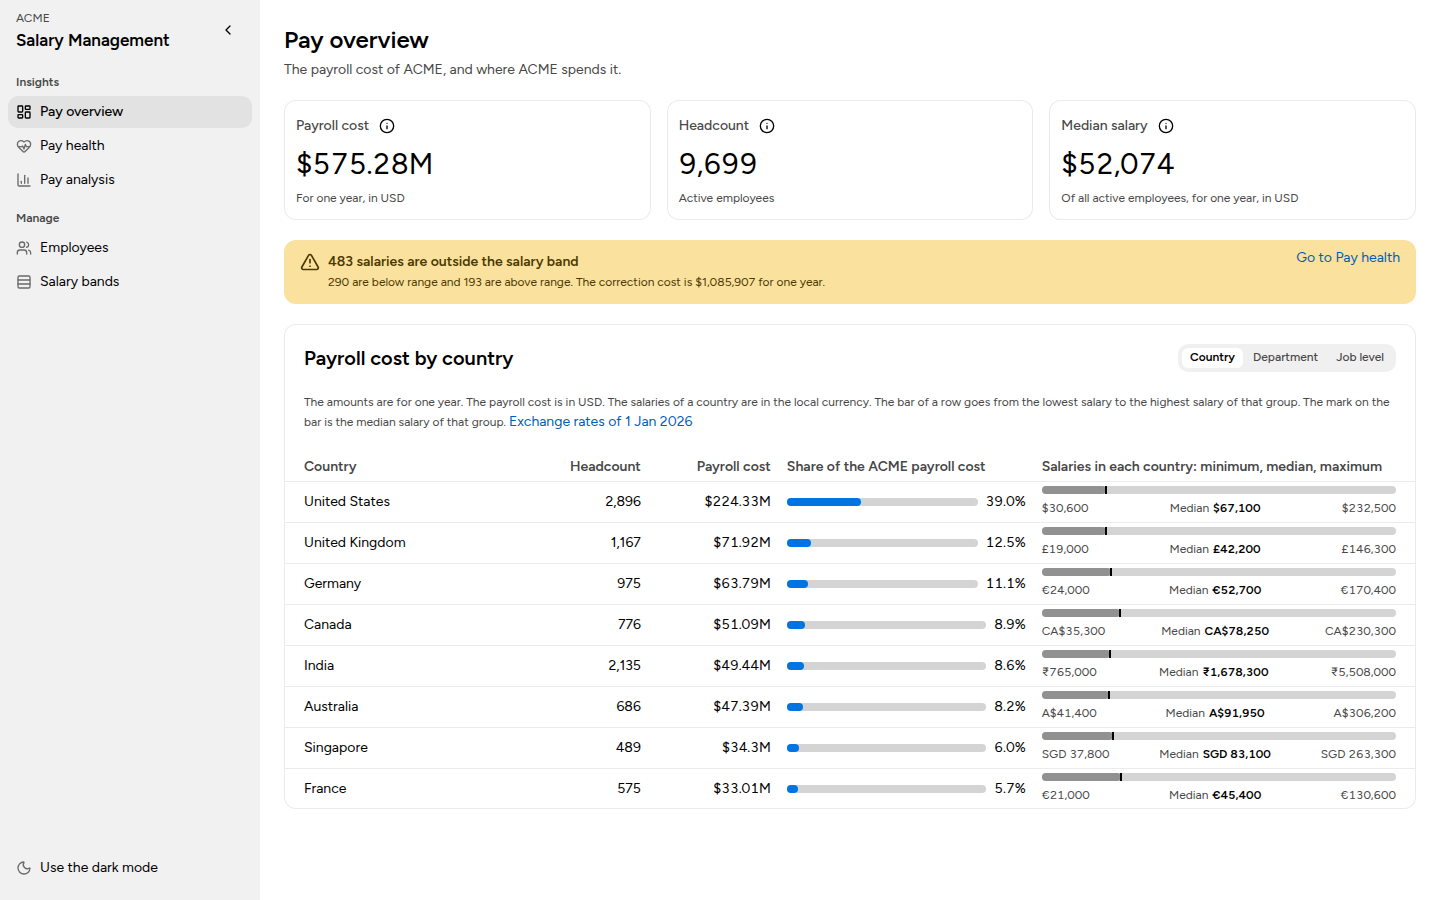
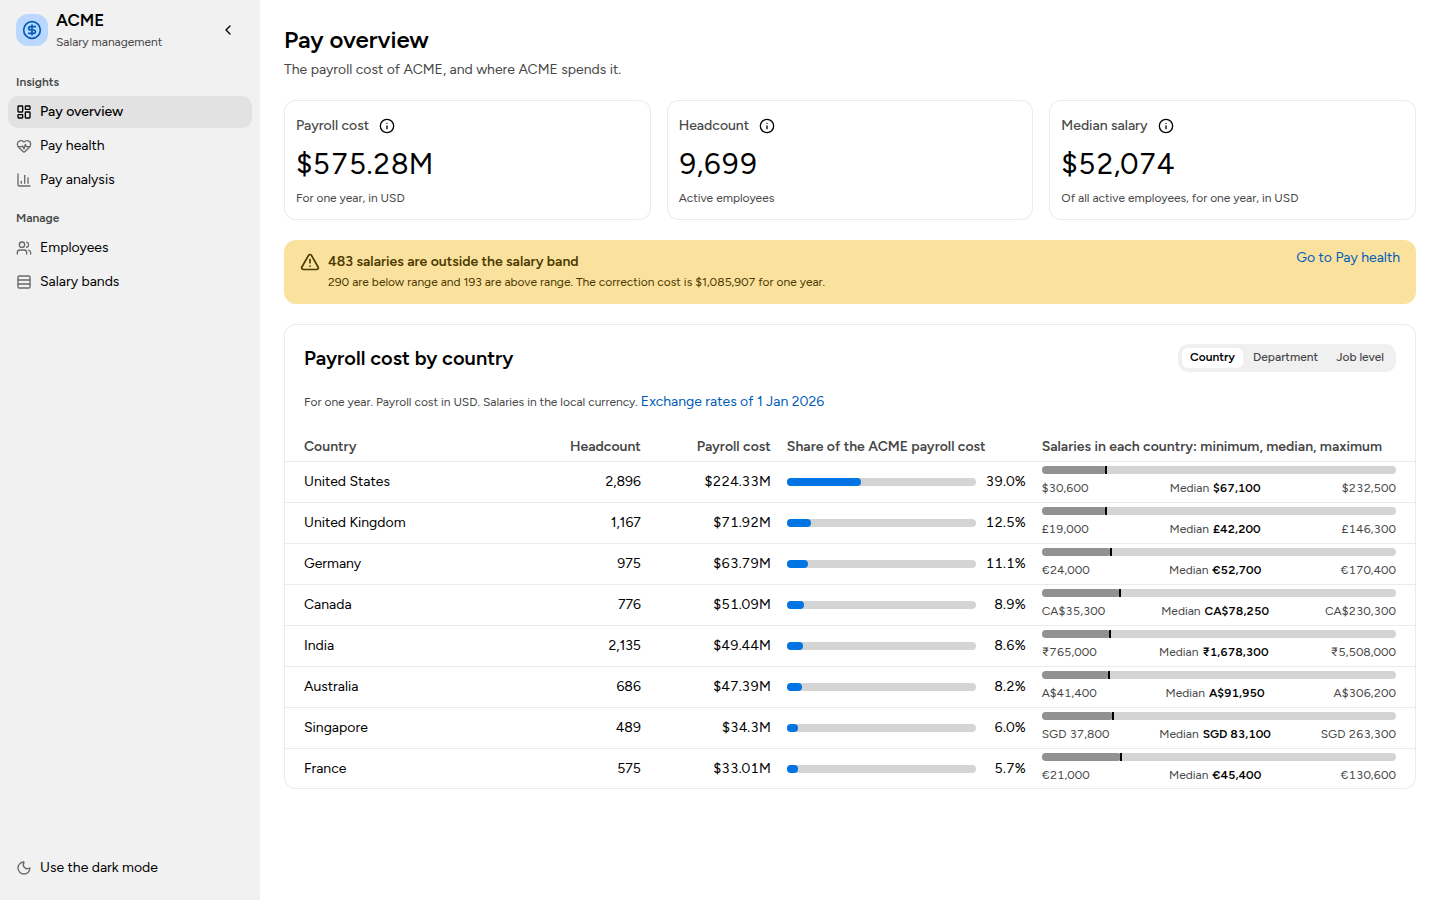
docs: show the UX and UI decisions, with new screenshots
Add a section on the UX and UI design to the README, and 2 screenshots
at phone width. Take each screenshot again. Record the step in ai-usage.md.

diff --git a/README.md b/README.md
@@ -8,7 +8,7 @@ The system tells the HR Manager what ACME pays, where the pay problems are, and 
 
 **[Open the live application](https://acme-salary-management-ds2v.onrender.com)** · [Screens](#screens) · [What the project shows](#what-the-project-shows) · [Start](#start) · [Documents](#documents)
 
-![The Pay overview: payroll cost, headcount and median salary, a notice for the salaries outside the band, and the payroll cost by country](docs/screenshots/02-pay-overview.png)
+![The Welcome screen: one headline, the live figures of ACME with the salaries outside the band, and the 4 steps of the work](docs/screenshots/01-welcome.png)
 
 ## The problem
 
@@ -37,12 +37,13 @@ All totals use one reporting currency (USD). Each salary converts at a dated exc
 
 | | |
 |---|---|
-| ![Welcome screen](docs/screenshots/01-welcome.png) **Welcome.** The problem, and the 6 capabilities of the system. | ![Pay overview](docs/screenshots/02-pay-overview.png) **Pay overview.** What ACME spends on salaries, and where. A notice links the salaries outside the band to Pay health. |
+| ![Welcome screen](docs/screenshots/01-welcome.png) **Welcome.** One headline, then the proof: the live figures of ACME and the salaries outside the band. Each step opens its screen. | ![Pay overview](docs/screenshots/02-pay-overview.png) **Pay overview.** What ACME spends on salaries, and where. A notice links the salaries outside the band to Pay health. |
 | ![Pay health](docs/screenshots/03-pay-health.png) **Pay health.** Each employee below range or above range, worst case first. The correction cost, as an amount and as a share of the payroll cost. | ![Salary distribution chart](docs/screenshots/04-salary-distribution.png) **Pay analysis: salary distribution.** The headcount in each salary bracket. A bar opens the list of its employees. |
 | ![Outliers by group chart](docs/screenshots/05-outliers-by-group.png) **Pay analysis: outliers by group.** The outliers of each country, department or job level, next to the employees in range. | ![Highest salaries](docs/screenshots/06-highest-salaries.png) **Pay analysis: highest salaries.** The 10 highest salaries, in the local currency and in USD, with the compa-ratio. |
 | ![Salary bands](docs/screenshots/08-salary-bands.png) **Salary bands.** The pay range of each job level in each country, with its headcount and its outliers. | ![Band change preview](docs/screenshots/07-band-change-preview.png) **Band change.** The effect of a new band on the outliers and the correction cost, before the save. |
 | ![Employee record](docs/screenshots/10-employee-record.png) **Employee record.** The salary, its position in the band, the compa-ratio, the range penetration and the salary history. | ![Salary change dialog](docs/screenshots/11-salary-change.png) **Salary change.** A new salary or an increase in percent. The dialog shows the difference and the band before the save. |
 | ![Employees](docs/screenshots/09-employees.png) **Employees.** Search and filters. The list gives its headcount, payroll cost and median salary, so a filter answers a pay question. | ![Dark mode](docs/screenshots/12-dark-mode.png) **Light and dark mode.** The mode follows the device, or the selection of the HR Manager. The charts follow the mode. |
+| ![The Welcome screen on a phone](docs/screenshots/13-phone-welcome.png) **On a phone.** The columns stack, and the navigation opens from a menu button. | ![The outliers chart on a phone](docs/screenshots/14-phone-chart.png) **A chart on a phone.** The labels take less room, so the bars stay long enough to read. |
 
 | Screen | Question that it answers |
 |---|---|
@@ -70,18 +71,22 @@ All totals use one reporting currency (USD). Each salary converts at a dated exc
 
 **Tests first, and traceable.**
 
-- 269 backend tests (pytest) and 288 UI tests (Vitest and React Testing Library).
+- 269 backend tests (pytest) and 292 UI tests (Vitest and React Testing Library).
 - Each requirement (`FR-nn`, `NFR-nn`) points to its slice and its tests in `docs/traceability.md`.
 - Each test name describes a scenario, for example `refuses_a_salary_of_zero`.
 
 **Measured performance.** With 10,000 employees, a list responds in less than 30 ms, and a pay insight in less than 60 ms. The requirements are 300 ms and 500 ms. `docs/performance.md` has the measurements.
 
-**An accessible, consistent UI.**
+**UX and UI design.**
 
-- All screens use the Astryx design system and its theme tokens.
-- Each screen has a loading state, an empty state and an error state, and works with a keyboard.
-- Each chart has a table view for a screen reader.
-- An explanation of each pay term opens from an info button.
+- **Answer first, then evidence.** Each screen opens with the figures that answer its question. The table follows.
+- **Show, not tell.** The first screen proves the product with the live figures of ACME, not with a list of features.
+- **Exceptions stand out.** Only a salary outside the band, an inactive employee or an error gets a color. A sign, an arrow or a word repeats each color.
+- **Plain words.** A caption has one short line. The explanation of a pay term opens from an info button.
+- **From a number to the people.** A bar of a chart and a count in a table open the list of their employees. A record goes back to the same list, with its filters.
+- **See the effect before the save.** The salary change and the band change show the result before the HR Manager commits.
+- **Every state and every screen size.** Each screen has a loading, an empty and an error state, and works with a keyboard. The layout adapts to a phone, and the light and dark modes share one set of theme tokens.
+- **One system.** All screens use the Astryx design system and its tokens, through a shared component library. Each chart has a table view for a screen reader. `.claude/DESIGN.md` has the design brief.
 
 **AI-assisted work, with a record.**
 

diff --git a/.claude/DESIGN.md b/.claude/DESIGN.md
@@ -39,7 +39,7 @@ Each screen is a vertical stack with a padding of 24 px: the title block, then t
 | Insight | Pay overview, Pay health | `PageHeader`, a `StatRow` of 3 `StatCard`, then one `Panel` with a switch at the end of its title row and one table |
 | Analysis | Pay analysis | `PageHeader`, a `TabList` of 3 tabs, then one `Panel` for the open tab: a chart or a table. The address keeps the open tab. A tab keeps its height while it loads |
 | List | Employees, Salary bands, Exchange rates | `PageHeader`, a `FilterBar`, then the table. The Employees screen has a card with the pay figures of the list above the table. A band row shows its headcount, and its employees below range and above range as plain numbers that are links |
-| Introduction | Welcome | A column in the center of the window, with no navigation: the purpose, a card for each capability, and one primary button |
+| Introduction | Welcome | No navigation. A headline and 2 buttons beside a `Panel` with the live figures of ACME and the salaries outside the band. Below, the 4 steps of the work, each a `ClickableCard` that opens its screen |
 | Record | Employee detail | A link back to the list, `PageHeader` with the name and the actions, a card with the salary and its position in the band, a `Panel` with the details, a `Panel` with the salary history |
 | Form | Salary change, band change, deactivation | `FormDialog` with `useSubmit`. An error of an input shows at the input. Another error shows at the top of the dialog. A change form shows the current value and the new value together. The band form shows the effect of the change before the save |
 
@@ -61,6 +61,7 @@ All are in `frontend/src/components/`. A screen composes them, and each one comp
 | `ChartFigure` | The frame of a chart, with its table view. `hooks/useChartColors` gives the colors from the theme tokens |
 | `BackLink` | The link above the title that goes back to the screen before, with an arrow. A list goes back to the same view of Pay analysis. A record goes back to the list that opened it, with the filters of that list |
 | `Money`, `StatusBadge`, `EmployeeLink`, `MetaBanner`, `LoadingBar` | Small parts that 2 or more screens use |
+| `BrandMark` | The mark of the product, in the navigation and on the Welcome screen. A screen reader skips it |
 | `LoadingRows`, `LoadingMark` | A list shows rows with a shimmer when a later load is slow, for example after a change of a filter (`rowsOf` of `DataState`). A section with a known height keeps that height while it loads (`loadingHeight`). `LoadingMark` is a small spinner for a figure that is not in a list. The two show after 150 ms, so a quick reply does not make them flash |
 
 ## Color rules

diff --git a/docs/traceability.md b/docs/traceability.md
@@ -23,7 +23,7 @@ The slices S0 to S4 are in `specs/salary-management-spec.md`. The slices C1 to C
 | FR-09 | Employees below range and above range, all or one kind; find an outlier by name, email or employee code | S4, C1 | `unit/test_ranges.py`, `api/test_pay_health.py` | `pages/pay-health/PayHealthPage.test.tsx` |
 | FR-10 | Cost to move all below-range salaries to the band minimum, and its share of the payroll cost | S4, C4 | `api/test_pay_health.py` | `pages/pay-health/PayHealthPage.test.tsx` |
 | FR-13 | Deactivate an employee; insights count active employees only | S1, S2, S4 | `api/test_deactivate.py`, `api/test_overview.py`, `api/test_pay_health.py`, `api/test_salary_distribution.py`, `api/test_highest_salaries.py` | `pages/employee-detail/SalaryChange.test.tsx`, `pages/employee-detail/EmployeeDetailPage.test.tsx` |
-| FR-14 | A first screen that states the purpose of the system and what it can do | C3 | None: the screen has no data | `pages/welcome/WelcomePage.test.tsx` |
+| FR-14 | A first screen that states the purpose of the system and what it can do | C3 | `api/test_overview.py`, `api/test_pay_health.py`: the live figures | `pages/welcome/WelcomePage.test.tsx` |
 | FR-15 | Headcount of each salary band; employees below range and above range for each band | B2 | `api/test_bands.py` | `pages/bands/BandsPage.test.tsx` |
 | FR-16 | Effect of a band change before the save: employees below range and above range, and the correction cost | B3 | `api/test_bands.py`, `api/test_pay_health.py`, `api/test_write_log.py` | `pages/bands/BandsPage.test.tsx` |
 | FR-17 | Chart of the active employees in each salary bracket, in the reporting currency | B4, B7 | `unit/test_distribution.py`, `api/test_salary_distribution.py` | `pages/analysis/PayAnalysisPage.test.tsx`, `pages/analysis/SalaryDistributionChart.test.tsx`, `components/ChartFigure.test.tsx` |

diff --git a/docs/ai-usage.md b/docs/ai-usage.md
@@ -325,6 +325,24 @@ The agent wrote a test for each fault before the correction. Then it put 12 scre
 
 **Decision of the developer.** The developer reviews the screens and the README before the push.
 
+### Step 10: A first look that shows the design
+
+**Request of the developer.** The Welcome screen was a wall of text about the system. Make each screen show the UX and UI skills, and clean up the screens inside the application.
+
+**Proposal of the agent.** The agent looked at each screen in a browser, at desktop width and at phone width. It made these changes, each with a test first where the change has a behavior:
+
+1. The Welcome screen has one headline, the live figures of ACME, and 4 steps that open their screens.
+2. The navigation has a mark for the product. The name moved below the mark, because the long name was cut.
+3. The captions of the Pay overview and the Pay analysis tabs have one short line in place of a paragraph.
+4. On a phone, the outliers chart gave its bars almost no room. A narrow chart now has narrow labels and no in-range text.
+5. The share bars of the Pay overview have the same length in each row.
+6. The pay sentence of the Employees screen lost its badge with a sparkle icon, which suggested AI text.
+7. The table of exchange rates has a maximum width, so that a rate stays near its currency.
+
+**Error of the agent.** The agent ran a code formatter on the changed files. The repository has no formatter configuration, so the formatter changed the style of many lines. The agent restored the files and applied the edits again.
+
+**Decision of the developer.** The developer reviews the screens before the push.
+
 ### The value of each change for the HR Manager
 
 | Change | Before | Now |
